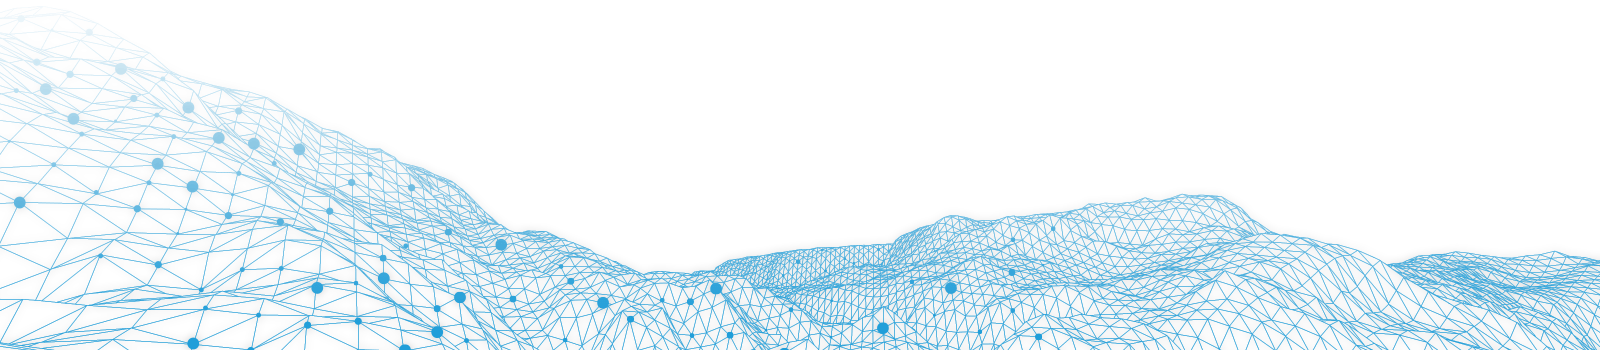
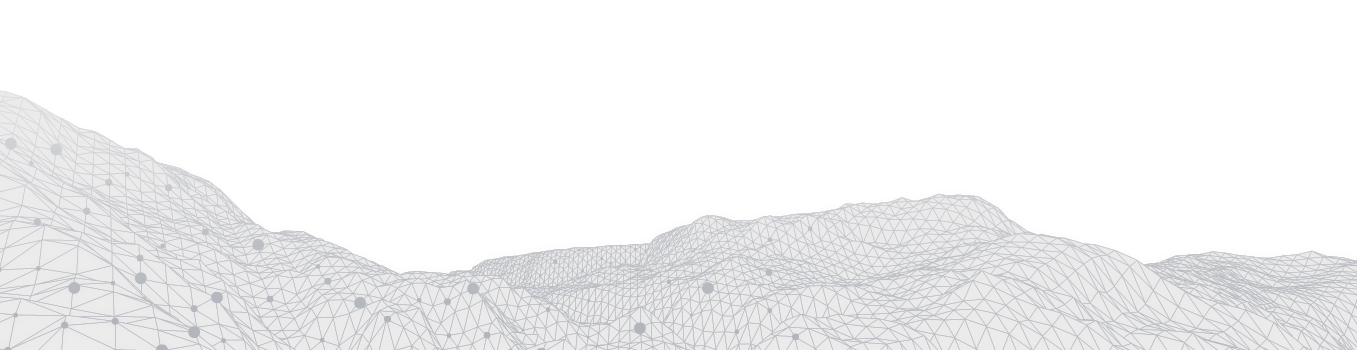
Prj3: Finished styling the 'Play' game.

Changed region(s): [[0.0, 0.1429, 1.0, 1.0]]

diff --git a/projects/project3/scan.html b/projects/project3/scan.html
@@ -115,13 +115,12 @@
 
   <!-- Playing game -->
   <section id="play">
-    <div class="content" style="background: none;background-image:url(../project3/assets/images/bg-play.png);background-position: center;background-size: cover;background-repeat: no-repeat;width: 100%;height: 100%;position: fixed;top: 0;left: 0;">
+    <div class="content" style="background: none;width: 100%;height: 100%;position: fixed;top: 0;left: 0;">
       <div class="virus">
-        <div class="data-caption">
-          Collect your data back<br />
-          <span class="data-span">5</span> File(s)
-        </div>
-          <div class="file-icon" data-type="doc"></div>
+        <img style="width: 100%;height: 35vmax;position: fixed;bottom: 0;left: 0;z-index:3;" src="assets/images/bg-play.png">
+        <img style="width: 35vmax;height: auto;position: absolute;bottom: 0;left: 0;top: 0;z-index: 1;right: 0;margin: auto;opacity:0.1;" src="assets/images/bg-play.gif">
+        <span class="data-span">5</span>
+        <div class="file-icon" data-type="doc"></div>
       </div>
     </div>
   </section>

diff --git a/projects/project3/css/style.css b/projects/project3/css/style.css
@@ -1,4 +1,5 @@
 @charset "utf-8";
+
 /*********************************************
 
 Here is a description of any special CSS used.
@@ -402,15 +403,26 @@ h3 {
 div.data-caption {
   width: 100%;
   position: fixed;
-  color: rgba(255, 255, 255, .4);
   font-size: 1.5em;
   text-align: center;
   top: 30px;
+  left: 0;
   text-transform: uppercase;
+  z-index: 1;
 }
 
 div.data-caption span {
-  color: rgba(255, 255, 255, .6);
+  color: #b4b7bd;
+  font-size: 50vmax;
+  line-height: 100%;
+}
+
+.data-span {
+  color: #b4b7bd82;
+  z-index: 5;
+  font-size: 15vmax;
+  line-height: 100%;
+  font-family: 'Open Sans', sans-serif;
 }
 
 @keyframes bounce {
@@ -439,6 +451,7 @@ div.file-icon {
   box-sizing: border-box;
   position: fixed;
   left: 50%;
+  z-index: 5;
   top: 50%;
   border-radius: 3px;
   text-align: left;
